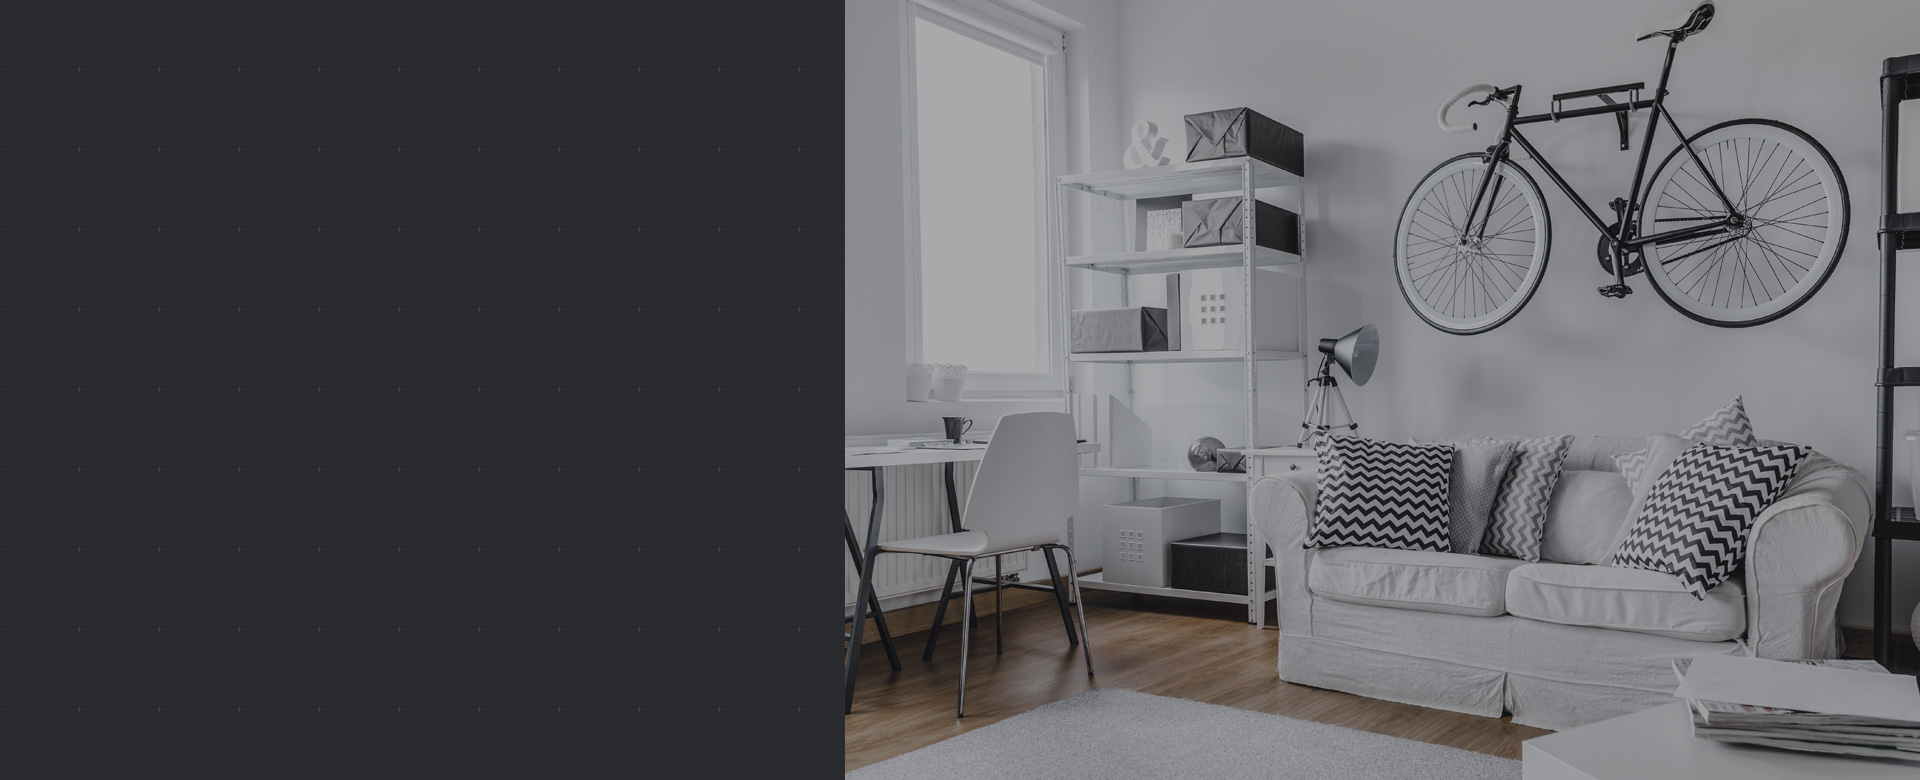
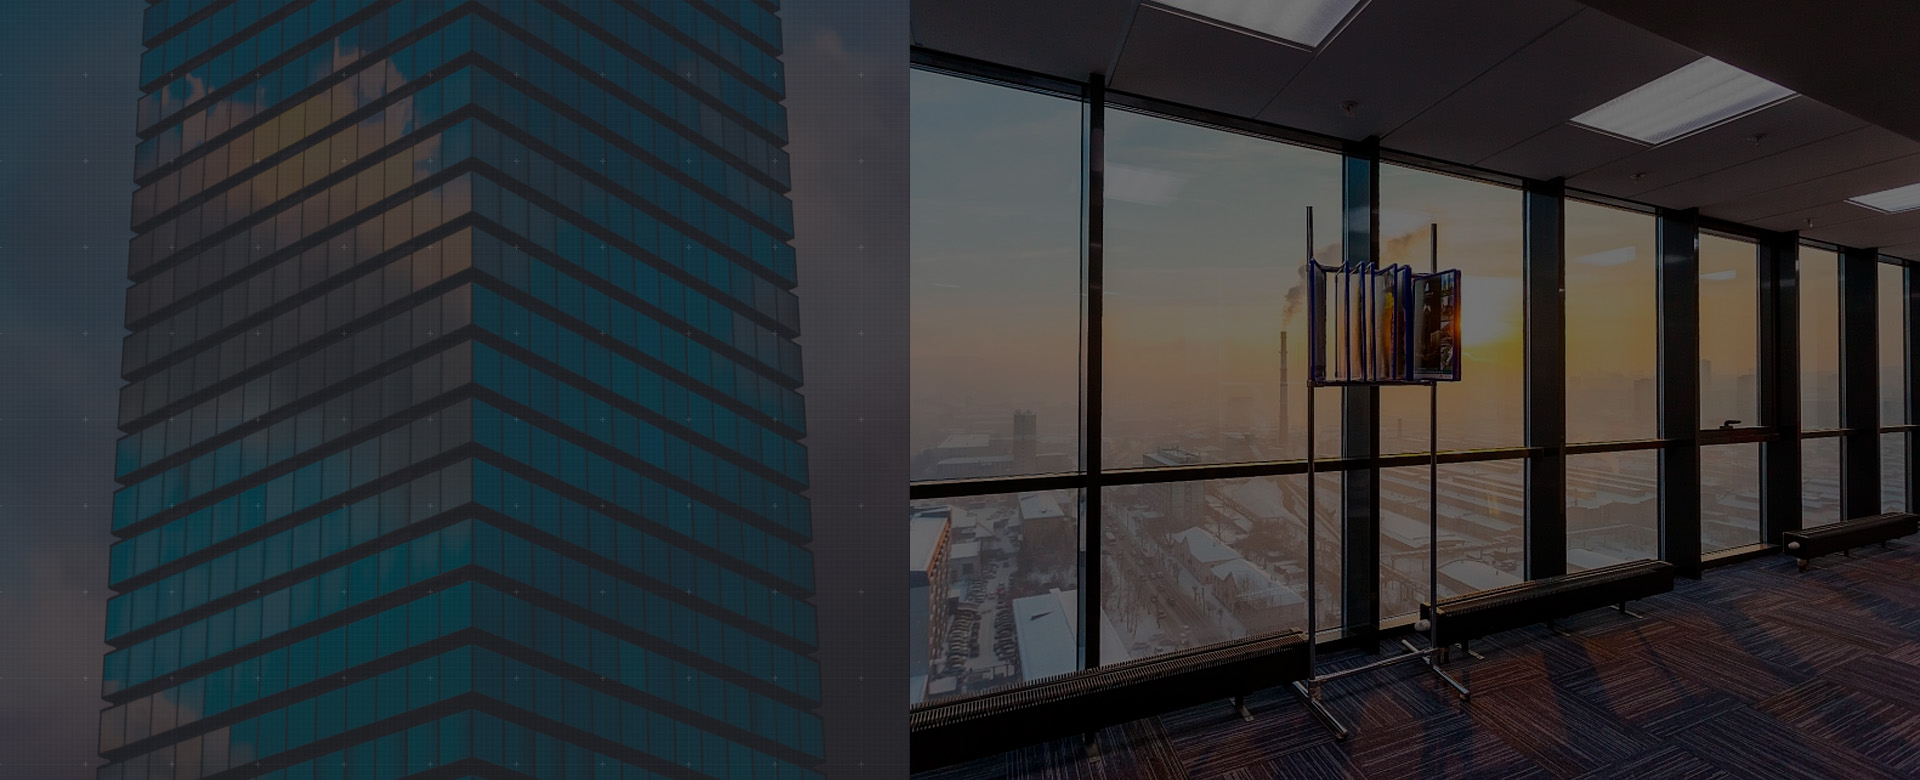
Переработал слайдер на главной

diff --git a/index.html b/index.html
@@ -146,7 +146,7 @@
                                 style="z-index: 7; white-space: nowrap;">
                                 <div class="slide-content left-slide">
                                     <div class="big-title">
-                                        Finest bespoke<br> interiors.
+                                        Полный цикл<br> производства.
                                     </div>
                                 </div>
                             </div>
@@ -154,19 +154,7 @@
                                 data-hoffset="['15','15','15','15']" data-voffset="['25','0','-5','-20']" data-x="['left','left','left','left']" data-y="['middle','middle','middle','middle']" data-textalign="['top','top','top','top']" data-frames='[{"from":"y:[-100%];z:0;rX:0deg;rY:0;rZ:0;sX:1;sY:1;skX:0;skY:0;","mask":"x:0px;y:0px;s:inherit;e:inherit;","speed":1500,"to":"o:1;","delay":1500,"ease":"Power3.easeInOut"},
                         {"delay":"wait","speed":1000,"to":"auto:auto;","mask":"x:0;y:0;s:inherit;e:inherit;","ease":"Power3.easeInOut"}]' style="z-index: 7; white-space: nowrap;">
                                 <div class="slide-content left-slide">
-                                    <div class="text">Creating lasting impressions through interior design.</div>
-                                </div>
-                            </div>
-                            <div class="tp-caption" data-paddingbottom="[0,0,0,0]" data-paddingleft="[0,0,0,0]" data-paddingright="[0,0,0,0]" data-paddingtop="[0,0,0,0]" data-responsive_offset="on" data-type="text" data-height="none" data-width="['800','800','700','400']" data-whitespace="normal"
-                                data-hoffset="['15','15','15','15']" data-voffset="['105','90','75','65']" data-x="['left','left','left','left']" data-y="['middle','middle','middle','middle']" data-textalign="['top','top','top','top']" data-frames='[{"from":"y:[100%];z:0;rX:0deg;rY:0;rZ:0;sX:1;sY:1;skX:0;skY:0;","mask":"x:0px;y:0px;s:inherit;e:inherit;","speed":1500,"to":"o:1;","delay":1500,"ease":"Power3.easeInOut"},{"delay":"wait","speed":1000,"to":"auto:auto;","mask":"x:0;y:0;s:inherit;e:inherit;","ease":"Power3.easeInOut"}]'
-                                style="z-index: 7; white-space: nowrap;">
-                                <div class="slide-content left-slide">
-                                    <div class="btn-box">
-                                        <a class="html5lightbox play-button" title="crystalo Video Gallery" href="https://www.youtube.com/watch?v=p25gICT63ek">
-                                            <span class="flaticon-play-button"></span>
-                                        </a>
-                                        <a class="slide-style2-button" href="#">More About Us</a>
-                                    </div>
+                                    <div class="text">Тут какое-то кратенькое тематическое описание</div>
                                 </div>
                             </div>
 
@@ -185,7 +173,7 @@
                                 style="z-index: 7; white-space: nowrap;">
                                 <div class="slide-content left-slide">
                                     <div class="big-title">
-                                        Beautiful Living<br> Solutions.
+                                        Проектная<br> разработка.
                                     </div>
                                 </div>
                             </div>
@@ -193,19 +181,7 @@
                                 data-hoffset="['15','15','15','15']" data-voffset="['25','0','-5','-20']" data-x="['left','left','left','left']" data-y="['middle','middle','middle','middle']" data-textalign="['top','top','top','top']" data-frames='[{"from":"y:[-100%];z:0;rX:0deg;rY:0;rZ:0;sX:1;sY:1;skX:0;skY:0;","mask":"x:0px;y:0px;s:inherit;e:inherit;","speed":1500,"to":"o:1;","delay":1500,"ease":"Power3.easeInOut"},
                         {"delay":"wait","speed":1000,"to":"auto:auto;","mask":"x:0;y:0;s:inherit;e:inherit;","ease":"Power3.easeInOut"}]' style="z-index: 7; white-space: nowrap;">
                                 <div class="slide-content left-slide">
-                                    <div class="text">Creating lasting impressions through interior design.</div>
-                                </div>
-                            </div>
-                            <div class="tp-caption" data-paddingbottom="[0,0,0,0]" data-paddingleft="[0,0,0,0]" data-paddingright="[0,0,0,0]" data-paddingtop="[0,0,0,0]" data-responsive_offset="on" data-type="text" data-height="none" data-width="['800','800','700','400']" data-whitespace="normal"
-                                data-hoffset="['15','15','15','15']" data-voffset="['105','90','75','65']" data-x="['left','left','left','left']" data-y="['middle','middle','middle','middle']" data-textalign="['top','top','top','top']" data-frames='[{"from":"y:[100%];z:0;rX:0deg;rY:0;rZ:0;sX:1;sY:1;skX:0;skY:0;","mask":"x:0px;y:0px;s:inherit;e:inherit;","speed":1500,"to":"o:1;","delay":1500,"ease":"Power3.easeInOut"},{"delay":"wait","speed":1000,"to":"auto:auto;","mask":"x:0;y:0;s:inherit;e:inherit;","ease":"Power3.easeInOut"}]'
-                                style="z-index: 7; white-space: nowrap;">
-                                <div class="slide-content left-slide">
-                                    <div class="btn-box">
-                                        <a class="html5lightbox play-button" title="crystalo Video Gallery" href="https://www.youtube.com/watch?v=p25gICT63ek">
-                                            <span class="flaticon-play-button"></span>
-                                        </a>
-                                        <a class="slide-style2-button" href="#">Services We Provide</a>
-                                    </div>
+                                    <div class="text">Тут какое-то кратенькое тематическое описание</div>
                                 </div>
                             </div>
 
@@ -222,7 +198,7 @@
                                 style="z-index: 7; white-space: nowrap;">
                                 <div class="slide-content left-slide">
                                     <div class="big-title">
-                                        Uniting design &<br> technology.
+                                        Еще один<br> заголовок.
                                     </div>
                                 </div>
                             </div>
@@ -230,24 +206,9 @@
                                 data-hoffset="['15','15','15','15']" data-voffset="['25','0','-5','-20']" data-x="['left','left','left','left']" data-y="['middle','middle','middle','middle']" data-textalign="['top','top','top','top']" data-frames='[{"from":"y:[-100%];z:0;rX:0deg;rY:0;rZ:0;sX:1;sY:1;skX:0;skY:0;","mask":"x:0px;y:0px;s:inherit;e:inherit;","speed":1500,"to":"o:1;","delay":1500,"ease":"Power3.easeInOut"},
                         {"delay":"wait","speed":1000,"to":"auto:auto;","mask":"x:0;y:0;s:inherit;e:inherit;","ease":"Power3.easeInOut"}]' style="z-index: 7; white-space: nowrap;">
                                 <div class="slide-content left-slide">
-                                    <div class="text">Creating lasting impressions through interior design.</div>
+                                    <div class="text">Тут какое-то кратенькое тематическое описание</div>
                                 </div>
                             </div>
-                            <div class="tp-caption" data-paddingbottom="[0,0,0,0]" data-paddingleft="[0,0,0,0]" data-paddingright="[0,0,0,0]" data-paddingtop="[0,0,0,0]" data-responsive_offset="on" data-type="text" data-height="none" data-width="['800','800','700','400']" data-whitespace="normal"
-                                data-hoffset="['15','15','15','15']" data-voffset="['105','90','75','65']" data-x="['left','left','left','left']" data-y="['middle','middle','middle','middle']" data-textalign="['top','top','top','top']" data-frames='[{"from":"y:[100%];z:0;rX:0deg;rY:0;rZ:0;sX:1;sY:1;skX:0;skY:0;","mask":"x:0px;y:0px;s:inherit;e:inherit;","speed":1500,"to":"o:1;","delay":1500,"ease":"Power3.easeInOut"},{"delay":"wait","speed":1000,"to":"auto:auto;","mask":"x:0;y:0;s:inherit;e:inherit;","ease":"Power3.easeInOut"}]'
-                                style="z-index: 7; white-space: nowrap;">
-                                <div class="slide-content left-slide">
-                                    <div class="btn-box">
-                                        <a class="html5lightbox play-button" title="crystalo Video Gallery" href="https://www.youtube.com/watch?v=p25gICT63ek">
-                                            <span class="flaticon-play-button"></span>
-                                        </a>
-                                        <a class="slide-style2-button" href="#">View Our Projects</a>
-                                    </div>
-                                </div>
-                            </div>
-
-
-
                         </li>
                     </ul>
                 </div>
